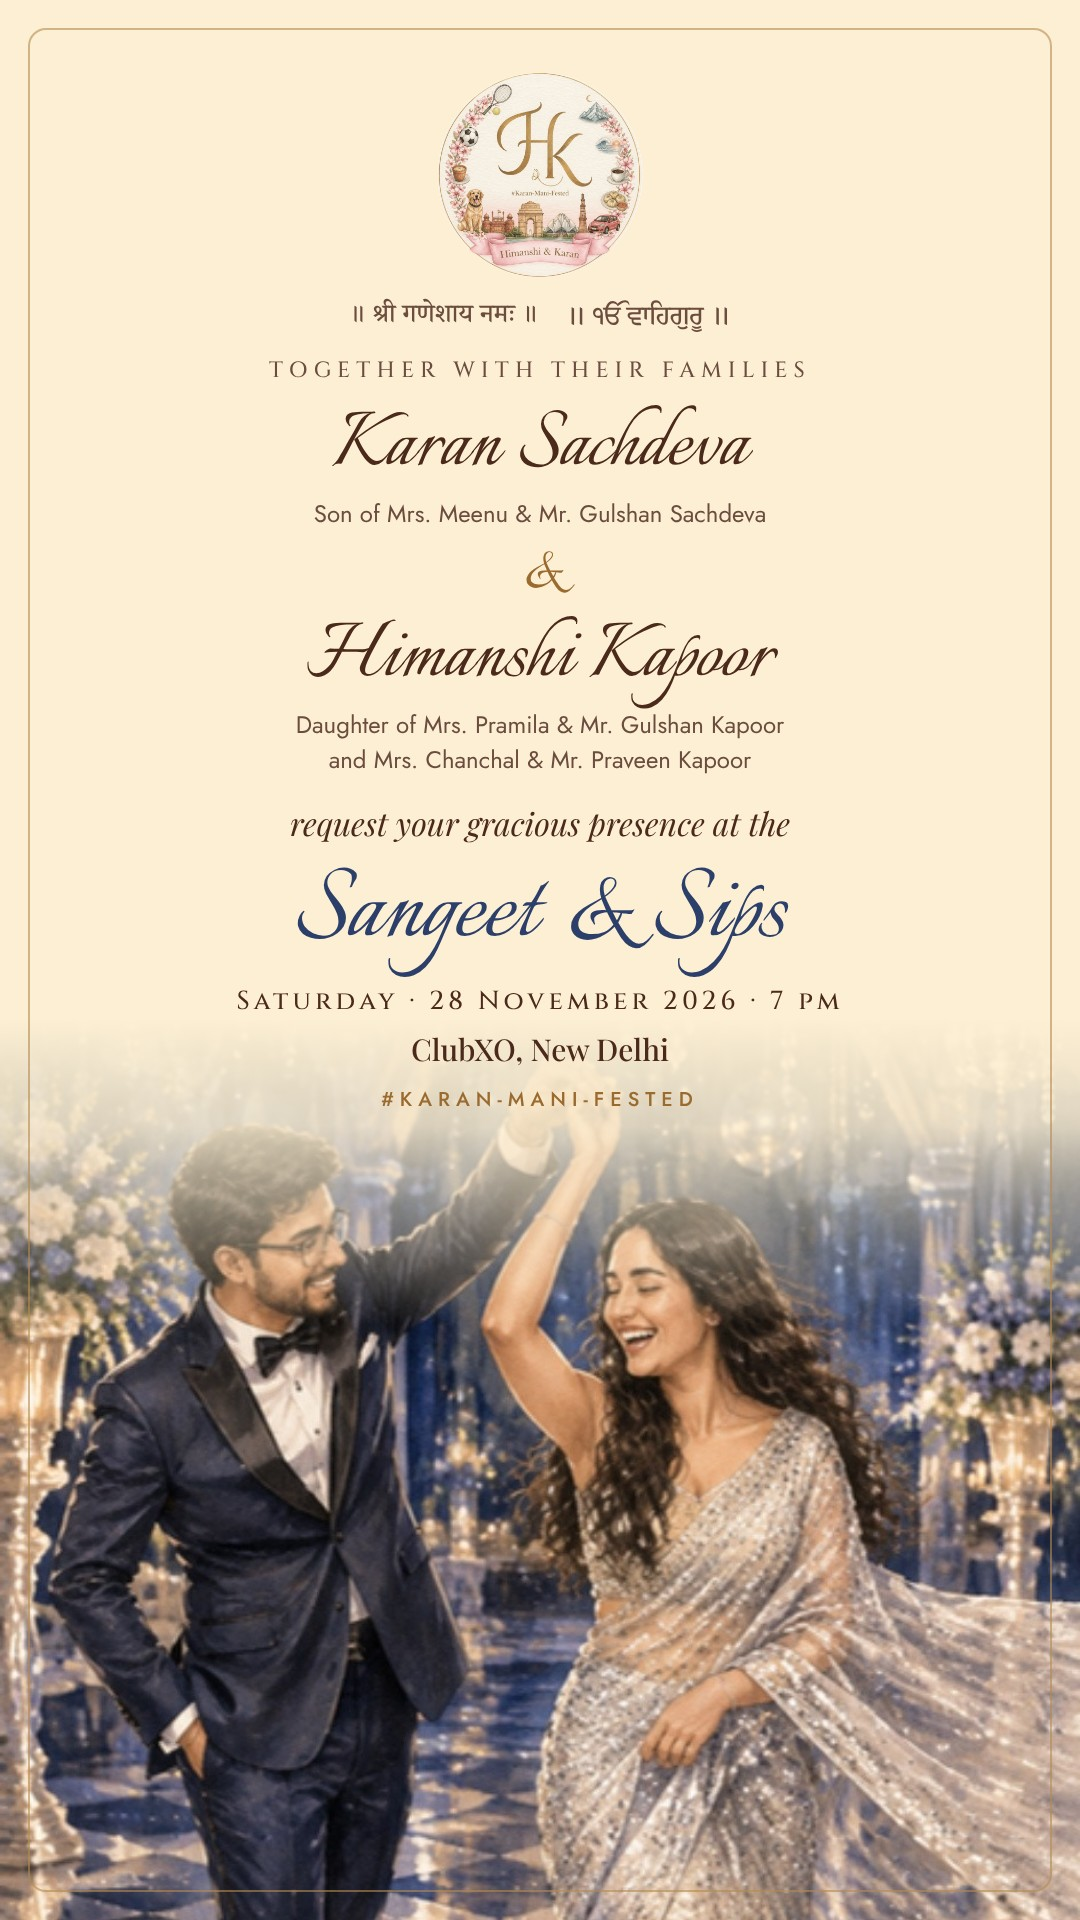
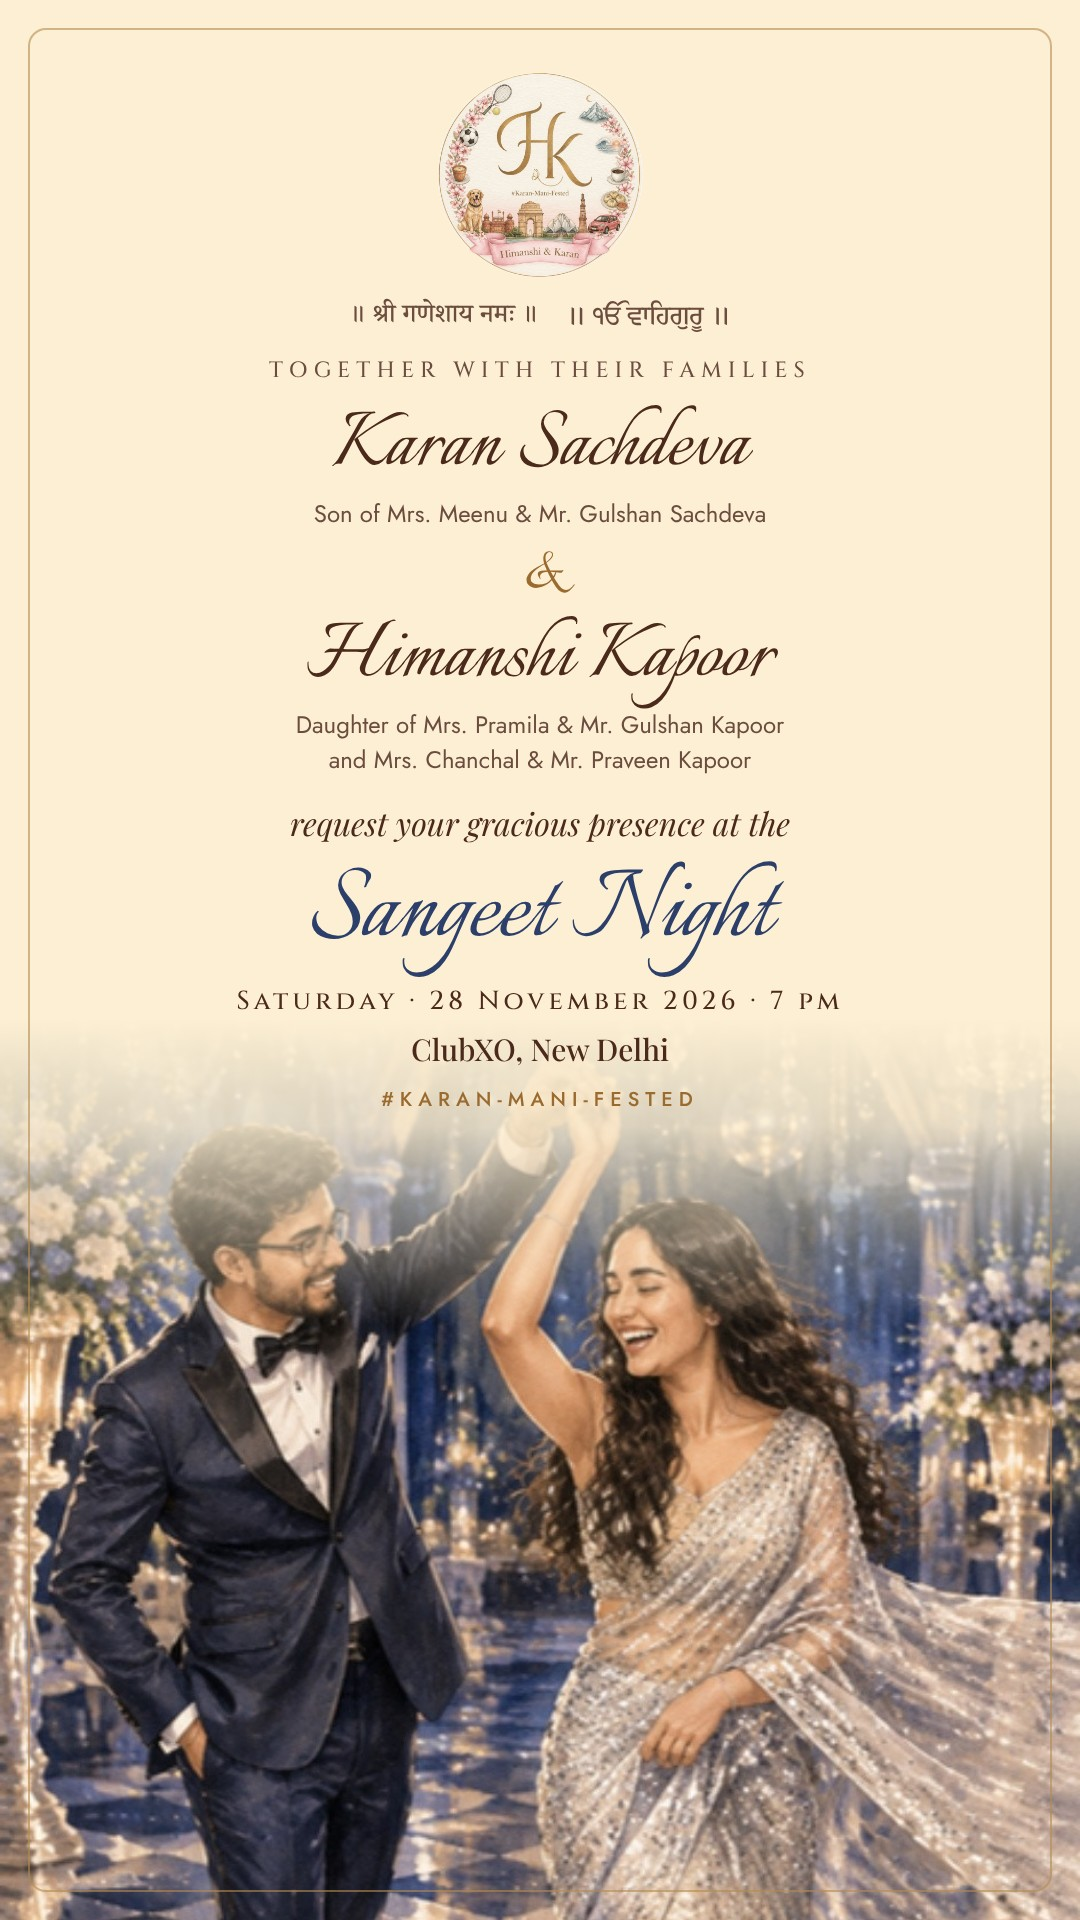
Groom side: Cocktails & Thumkas on the invite, Sangeet Night on the image card
Claude-Session: https://claude.ai/code/session_019B6NoVCTSqGoMKxvRqAEtT

Changed region(s): [[0.275, 0.4375, 0.7333, 0.5312]]

diff --git a/bride-no-cocktail/index.html b/bride-no-cocktail/index.html
@@ -28,9 +28,9 @@
   <link rel="preconnect" href="https://fonts.googleapis.com">
   <link rel="preconnect" href="https://fonts.gstatic.com" crossorigin>
   <link href="https://fonts.googleapis.com/css2?family=Cinzel:wght@400;500;600&family=Italianno&family=Jost:wght@300;400;500;600&family=Noto+Serif+Devanagari:wght@500&family=Noto+Serif+Gurmukhi:wght@500&family=Patrick+Hand&family=Playfair+Display:ital,wght@0,400;0,500;1,400;1,500&display=swap" rel="stylesheet">
-  <link rel="stylesheet" href="css/main.css?v=35">
+  <link rel="stylesheet" href="css/main.css?v=36">
   <script>window.INVITE_VERSION = "bride-no-cocktail";</script>
-  <script src="js/content.js?v=35"></script>
+  <script src="js/content.js?v=36"></script>
 </head>
 <body class="locked">
 
@@ -146,6 +146,6 @@
     <span></span><span></span><span></span><span></span>
   </button>
 
-  <script src="js/page.js?v=35"></script>
+  <script src="js/page.js?v=36"></script>
 </body>
 </html>

diff --git a/bride-complete/index.html b/bride-complete/index.html
@@ -28,9 +28,9 @@
   <link rel="preconnect" href="https://fonts.googleapis.com">
   <link rel="preconnect" href="https://fonts.gstatic.com" crossorigin>
   <link href="https://fonts.googleapis.com/css2?family=Cinzel:wght@400;500;600&family=Italianno&family=Jost:wght@300;400;500;600&family=Noto+Serif+Devanagari:wght@500&family=Noto+Serif+Gurmukhi:wght@500&family=Patrick+Hand&family=Playfair+Display:ital,wght@0,400;0,500;1,400;1,500&display=swap" rel="stylesheet">
-  <link rel="stylesheet" href="css/main.css?v=35">
+  <link rel="stylesheet" href="css/main.css?v=36">
   <script>window.INVITE_VERSION = "bride-complete";</script>
-  <script src="js/content.js?v=35"></script>
+  <script src="js/content.js?v=36"></script>
 </head>
 <body class="locked">
 
@@ -146,6 +146,6 @@
     <span></span><span></span><span></span><span></span>
   </button>
 
-  <script src="js/page.js?v=35"></script>
+  <script src="js/page.js?v=36"></script>
 </body>
 </html>

diff --git a/groom-cocktail/index.html b/groom-cocktail/index.html
@@ -28,9 +28,9 @@
   <link rel="preconnect" href="https://fonts.googleapis.com">
   <link rel="preconnect" href="https://fonts.gstatic.com" crossorigin>
   <link href="https://fonts.googleapis.com/css2?family=Cinzel:wght@400;500;600&family=Italianno&family=Jost:wght@300;400;500;600&family=Noto+Serif+Devanagari:wght@500&family=Noto+Serif+Gurmukhi:wght@500&family=Patrick+Hand&family=Playfair+Display:ital,wght@0,400;0,500;1,400;1,500&display=swap" rel="stylesheet">
-  <link rel="stylesheet" href="css/main.css?v=35">
+  <link rel="stylesheet" href="css/main.css?v=36">
   <script>window.INVITE_VERSION = "groom-cocktail";</script>
-  <script src="js/content.js?v=35"></script>
+  <script src="js/content.js?v=36"></script>
 </head>
 <body class="locked">
 
@@ -146,6 +146,6 @@
     <span></span><span></span><span></span><span></span>
   </button>
 
-  <script src="js/page.js?v=35"></script>
+  <script src="js/page.js?v=36"></script>
 </body>
 </html>

diff --git a/groom-complete/index.html b/groom-complete/index.html
@@ -28,9 +28,9 @@
   <link rel="preconnect" href="https://fonts.googleapis.com">
   <link rel="preconnect" href="https://fonts.gstatic.com" crossorigin>
   <link href="https://fonts.googleapis.com/css2?family=Cinzel:wght@400;500;600&family=Italianno&family=Jost:wght@300;400;500;600&family=Noto+Serif+Devanagari:wght@500&family=Noto+Serif+Gurmukhi:wght@500&family=Patrick+Hand&family=Playfair+Display:ital,wght@0,400;0,500;1,400;1,500&display=swap" rel="stylesheet">
-  <link rel="stylesheet" href="css/main.css?v=35">
+  <link rel="stylesheet" href="css/main.css?v=36">
   <script>window.INVITE_VERSION = "groom-complete";</script>
-  <script src="js/content.js?v=35"></script>
+  <script src="js/content.js?v=36"></script>
 </head>
 <body class="locked">
 
@@ -146,6 +146,6 @@
     <span></span><span></span><span></span><span></span>
   </button>
 
-  <script src="js/page.js?v=35"></script>
+  <script src="js/page.js?v=36"></script>
 </body>
 </html>

diff --git a/bride-wedding/index.html b/bride-wedding/index.html
@@ -28,9 +28,9 @@
   <link rel="preconnect" href="https://fonts.googleapis.com">
   <link rel="preconnect" href="https://fonts.gstatic.com" crossorigin>
   <link href="https://fonts.googleapis.com/css2?family=Cinzel:wght@400;500;600&family=Italianno&family=Jost:wght@300;400;500;600&family=Noto+Serif+Devanagari:wght@500&family=Noto+Serif+Gurmukhi:wght@500&family=Patrick+Hand&family=Playfair+Display:ital,wght@0,400;0,500;1,400;1,500&display=swap" rel="stylesheet">
-  <link rel="stylesheet" href="css/main.css?v=35">
+  <link rel="stylesheet" href="css/main.css?v=36">
   <script>window.INVITE_VERSION = "bride-wedding";</script>
-  <script src="js/content.js?v=35"></script>
+  <script src="js/content.js?v=36"></script>
 </head>
 <body class="locked">
 
@@ -146,6 +146,6 @@
     <span></span><span></span><span></span><span></span>
   </button>
 
-  <script src="js/page.js?v=35"></script>
+  <script src="js/page.js?v=36"></script>
 </body>
 </html>

diff --git a/groom-wedding/index.html b/groom-wedding/index.html
@@ -28,9 +28,9 @@
   <link rel="preconnect" href="https://fonts.googleapis.com">
   <link rel="preconnect" href="https://fonts.gstatic.com" crossorigin>
   <link href="https://fonts.googleapis.com/css2?family=Cinzel:wght@400;500;600&family=Italianno&family=Jost:wght@300;400;500;600&family=Noto+Serif+Devanagari:wght@500&family=Noto+Serif+Gurmukhi:wght@500&family=Patrick+Hand&family=Playfair+Display:ital,wght@0,400;0,500;1,400;1,500&display=swap" rel="stylesheet">
-  <link rel="stylesheet" href="css/main.css?v=35">
+  <link rel="stylesheet" href="css/main.css?v=36">
   <script>window.INVITE_VERSION = "groom-wedding";</script>
-  <script src="js/content.js?v=35"></script>
+  <script src="js/content.js?v=36"></script>
 </head>
 <body class="locked">
 
@@ -146,6 +146,6 @@
     <span></span><span></span><span></span><span></span>
   </button>
 
-  <script src="js/page.js?v=35"></script>
+  <script src="js/page.js?v=36"></script>
 </body>
 </html>

diff --git a/index.html b/index.html
@@ -26,8 +26,8 @@
   <link rel="preconnect" href="https://fonts.googleapis.com">
   <link rel="preconnect" href="https://fonts.gstatic.com" crossorigin>
   <link href="https://fonts.googleapis.com/css2?family=Cinzel:wght@400;500;600&family=Italianno&family=Jost:wght@300;400;500;600&family=Noto+Serif+Devanagari:wght@500&family=Noto+Serif+Gurmukhi:wght@500&family=Patrick+Hand&family=Playfair+Display:ital,wght@0,400;0,500;1,400;1,500&display=swap" rel="stylesheet">
-  <link rel="stylesheet" href="css/main.css?v=35">
-  <script src="js/content.js?v=35"></script>
+  <link rel="stylesheet" href="css/main.css?v=36">
+  <script src="js/content.js?v=36"></script>
 </head>
 <body class="locked">
 
@@ -143,6 +143,6 @@
     <span></span><span></span><span></span><span></span>
   </button>
 
-  <script src="js/page.js?v=35"></script>
+  <script src="js/page.js?v=36"></script>
 </body>
 </html>

diff --git a/tools/card/card.html b/tools/card/card.html
@@ -45,7 +45,7 @@
 <script>
   const CARDS = {
     wedding:  { event: "Wedding", when: "Tuesday · 01 December 2026 · 11 am", venue: "Ambria Pushpanjali, New Delhi", art: "ev-wedding.jpg", accent: "#9b111e", pos: "50% 31%" },
-    sangeet:  { event: "Sangeet & Sips", when: "Saturday · 28 November 2026 · 7 pm", venue: "ClubXO, New Delhi", art: "ev-cocktail.jpg", accent: "#2c3f6b", pos: "50% 45%" },
+    sangeet:  { event: "Sangeet Night", when: "Saturday · 28 November 2026 · 7 pm", venue: "ClubXO, New Delhi", art: "ev-cocktail.jpg", accent: "#2c3f6b", pos: "50% 45%" },
   };
   const c = CARDS[location.hash.slice(1)] || CARDS.wedding;
   document.getElementById("event").textContent = c.event;

diff --git a/js/content.js b/js/content.js
@@ -202,7 +202,7 @@ window.SITE = {
 
     /* ---------- What changes on the groom-side invites ----------------- */
     groomSide: {
-        cocktailTitle: "Sangeet & Sips",
+        cocktailTitle: "Cocktails & Thumkas",
         chapters: [
             { title: "The Fixture", art: "ch1-fixture-groom", text: "He captained the college team.\nShe managed the football tournament.\nAnd that's how it all began." },
             { title: "Meeting", text: "For their first meeting, he came to pick her up at Naraina Metro. Years later, he still picks her up from the very same spot." },

diff --git a/tools/build-versions.py b/tools/build-versions.py
@@ -18,8 +18,8 @@ VERSIONS = {
         "description": "Mehndi, Haldi and the Wedding",
         "dates": "29 Nov — 01 Dec 2026",
     },
-    "groom-cocktail": {"description": "Sangeet & Sips and the Wedding"},
-    "groom-complete": {"description": "Sangeet & Sips, Haldi and the Wedding"},
+    "groom-cocktail": {"description": "Cocktails & Thumkas and the Wedding"},
+    "groom-complete": {"description": "Cocktails & Thumkas, Haldi and the Wedding"},
     "groom-wedding": {"description": "The Wedding", "dates": "01 Dec 2026"},
     "bride-wedding": {
         "description": "The Wedding",

diff --git a/README.md b/README.md
@@ -56,7 +56,7 @@ The main invite (`…/wedding-invite/`) has the Sagan & Cocktails, the Haldi and
 | Groom, Sangeet + Wedding | `…/wedding-invite/#groom-cocktail` | Sangeet and Wedding |
 | Groom, Wedding only | `…/wedding-invite/#groom-wedding` | Only the Wedding |
 
-The groom versions put Karan and the Sachdevas first, show four children at the door instead of Ivy and Nivi, call the cocktail evening "Sangeet & Sips", use the groom-side text for chapters 1–3 (`groomSide` in `js/content.js`) and leave out Nivi's note.
+The groom versions put Karan and the Sachdevas first, show four children at the door instead of Ivy and Nivi, call the cocktail evening "Cocktails & Thumkas", use the groom-side text for chapters 1–3 (`groomSide` in `js/content.js`) and leave out Nivi's note.
 
 **Image-only invitations** (no website, just a picture to send): `assets/cards/invite-wedding.jpg` and `assets/cards/invite-sangeet.jpg`. To change them, edit `tools/card/card.html`, then run `node tools/make-cards.js` with a local server on port 8770.
 
